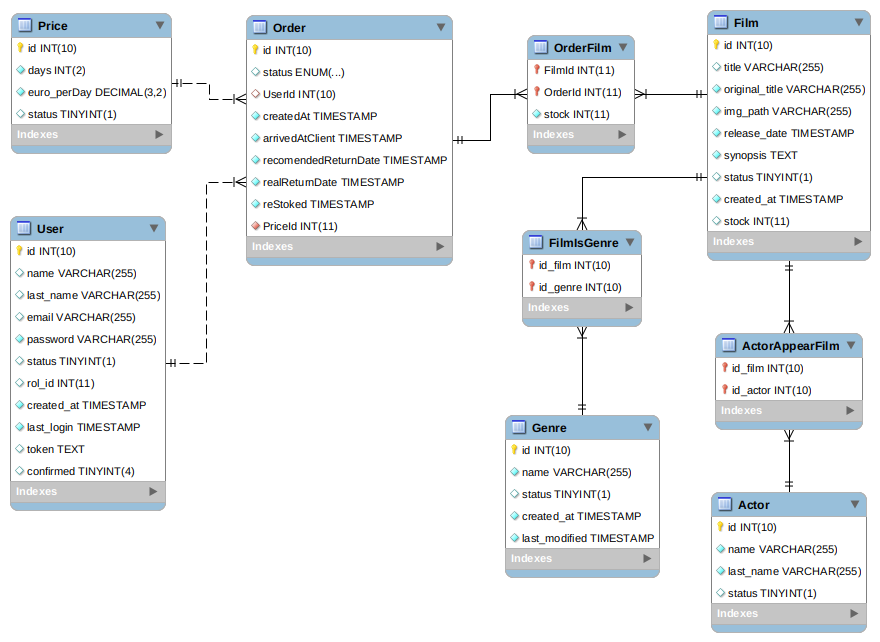
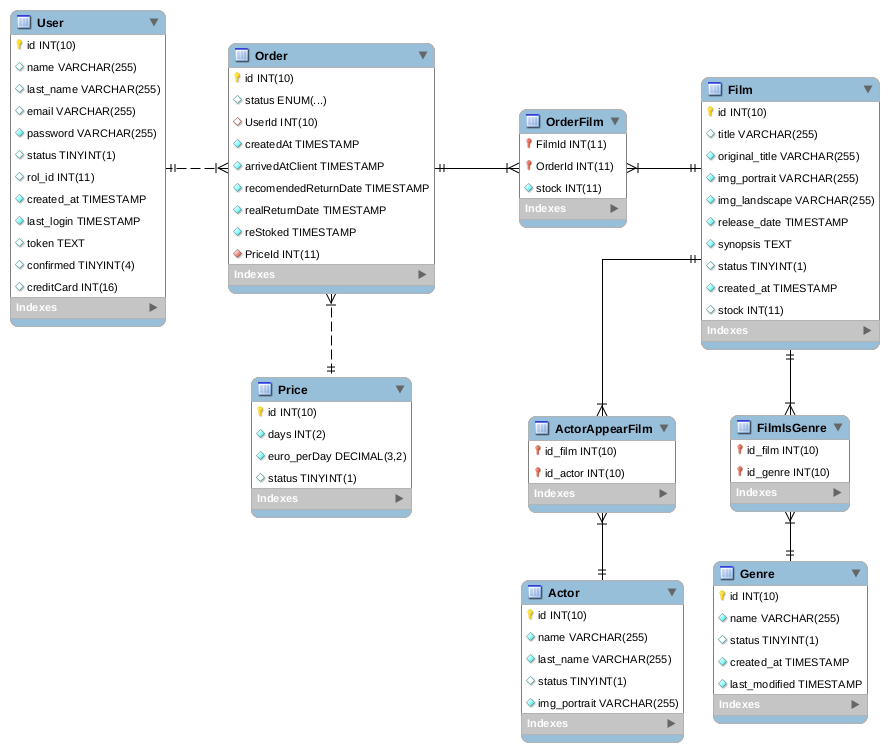
added new properties to models and updated schemas and diagrams

diff --git a/models/Film.js b/models/Film.js
@@ -1,7 +1,5 @@
 /* jshint indent: 2 */
 
-
-
 module.exports = function(sequelize, DataTypes) {
   return sequelize.define('Film', {
     id: {
@@ -18,7 +16,11 @@ module.exports = function(sequelize, DataTypes) {
       type: DataTypes.STRING(255),
       allowNull: false
     },
-    img_path: {
+    img_portrait: {
+      type: DataTypes.STRING(255),
+      allowNull: false
+    },
+    img_landscape: {
       type: DataTypes.STRING(255),
       allowNull: false
     },
@@ -51,4 +53,3 @@ module.exports = function(sequelize, DataTypes) {
     tableName: 'Film'
     });
 };
-

diff --git a/models/User.js b/models/User.js
@@ -47,12 +47,16 @@ module.exports = function(sequelize, DataTypes) {
     token: {
       type: DataTypes.TEXT,
       allowNull: true,
-      defaultValue: "''"
+      defaultValue: ""
     },
     confirmed: {
       type: DataTypes.INTEGER(4),
       allowNull: true,
       defaultValue: 0
+    },
+    creditCard: {
+      type: DataTypes.INTEGER(16),
+      allowNull: true
     }
   }, {
     sequelize,

diff --git a/models/Actor.js b/models/Actor.js
@@ -20,6 +20,10 @@ module.exports = function(sequelize, DataTypes) {
       type: DataTypes.INTEGER(1),
       allowNull: true,
       defaultValue: 1
+    },
+    img_portrait: {
+      type: DataTypes.STRING(255),
+      allowNull: false
     }
   }, {
     sequelize,
